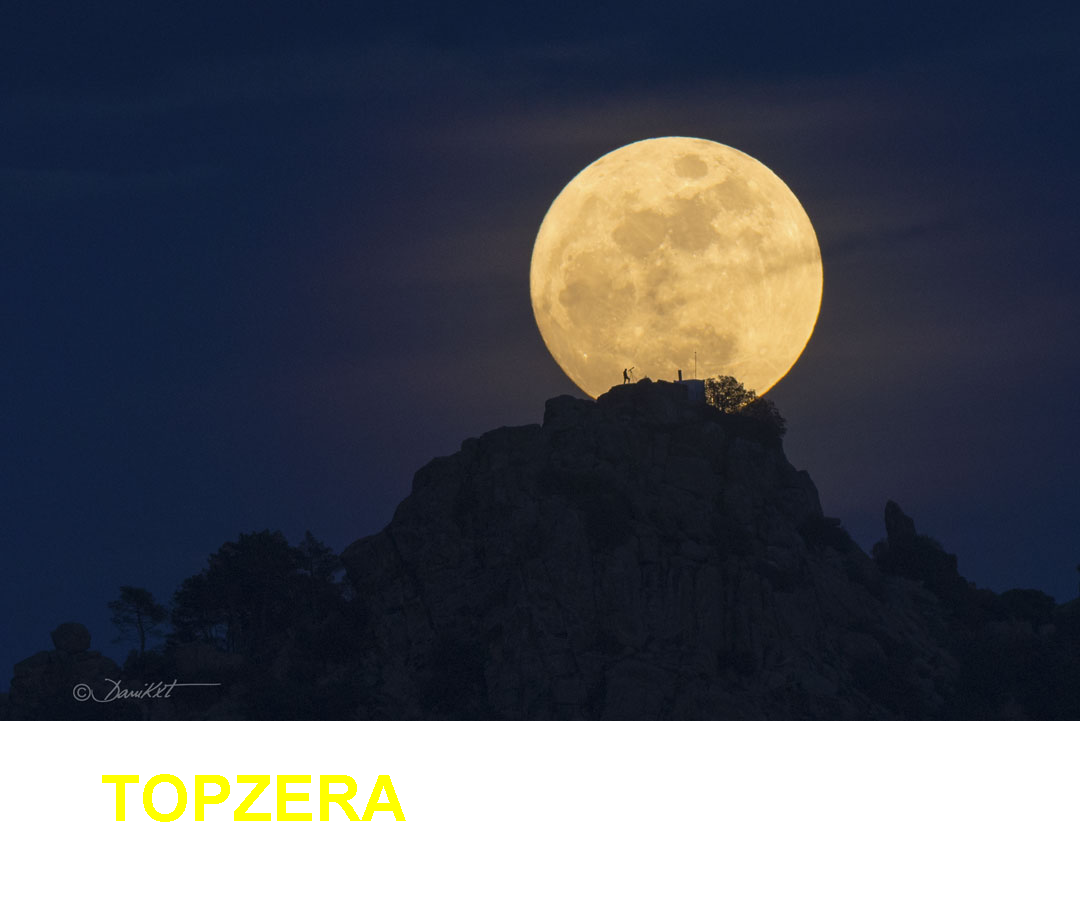
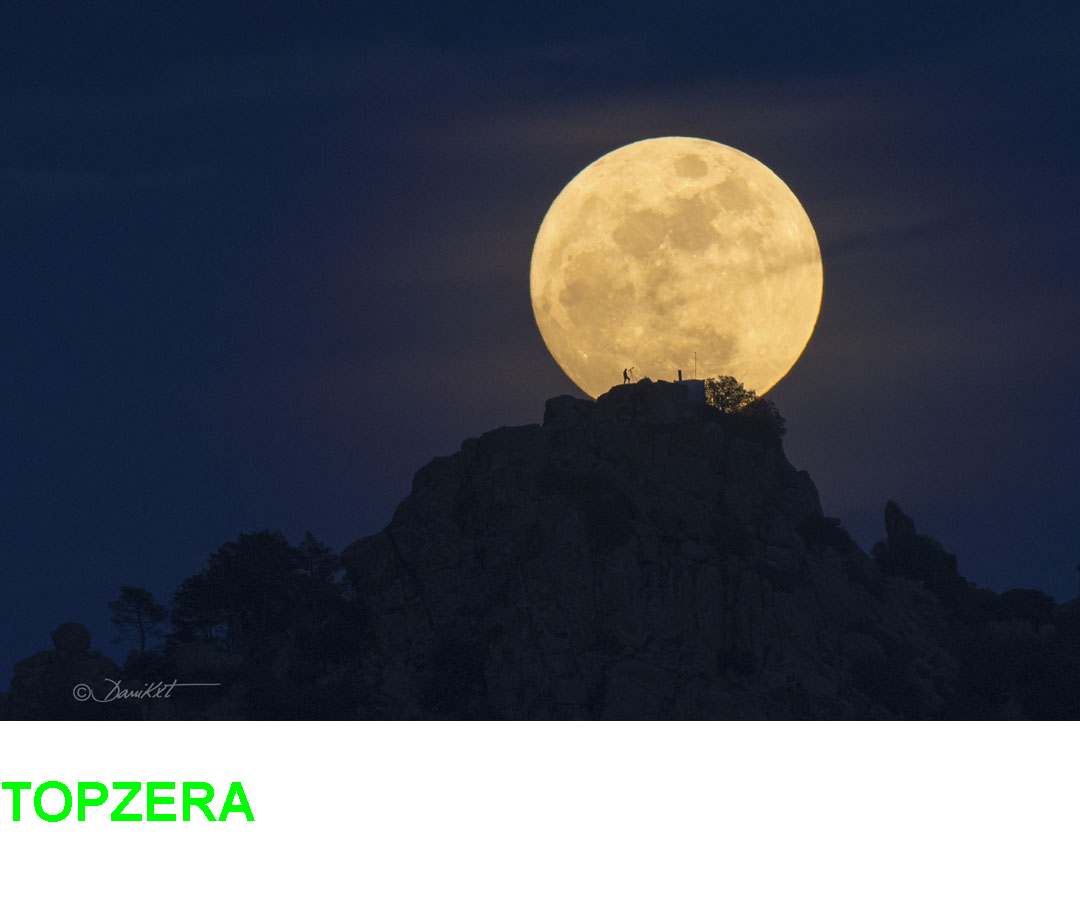
Extrator de conteudo com gerador de figurinhas

Changed region(s): [[0.0, 0.8208, 0.3667, 0.9121]]

diff --git a/src/App.java b/src/App.java
@@ -6,12 +6,21 @@ public class App {
     public static void main(String[] args) throws Exception {
 
         // API nasa
-        String url = "https://raw.githubusercontent.com/alura-cursos/imersao-java/api/NASA-APOD.json";
-        
+        //String url = "https://raw.githubusercontent.com/alura-cursos/imersao-java/api/NASA-APOD.json";
+
+        // minha API (linguagens mais utilizadas em 2022)
+         String url = "http://localhost:8080/linguagens-mais-usadas-em-2022";
+
+        //API imdb
+        //String  url = "https://imdb-api.com/en/API/MostPopularTVs/k_s0xlqz72";
+
+        // var extrator = new ExtratorConteudoNasa();
+        var extrator = new ExtratorDeConteudoDoIMDB();
+
         var http = new ClientHttp();
         String json = http.buscaDados(url);
 
-        ExtratorConteudoNasa extrator = new ExtratorConteudoNasa();
+        // ExtratorConteudoNasa extrator = new ExtratorConteudoNasa();
         List<Conteudo> conteudos = extrator.extraiConteudos(json);
 
         var geradora = new GeradoraDeFigurinhas();

diff --git a/src/GeradoraDeFigurinhas.java b/src/GeradoraDeFigurinhas.java
@@ -1,4 +1,5 @@
 
+
 import java.awt.Color;
 import java.awt.Font;
 import java.awt.Graphics2D;
@@ -32,12 +33,12 @@ public class GeradoraDeFigurinhas {
         graphics.drawImage(imagemOriginal, 0, 0, null);
 
         // configurar a fonte
-        var fonte = new Font(Font.SANS_SERIF, Font.BOLD, 64);
-        graphics.setColor(Color.YELLOW);
+        var fonte = new Font(Font.SANS_SERIF, Font.BOLD, 54);
+        graphics.setColor(Color.GREEN);
         graphics.setFont(fonte);
 
         // escrever uma frase na nova imagem
-        graphics.drawString("TOPZERA", 100, novaAltura - 100);
+        graphics.drawString("TOPZERA", 0, novaAltura - 100);
 
         // escrever a nova imagem em um arquivo
         ImageIO.write(novaImagem, "png", new File(nomeArquivo));

diff --git a/src/Conteudo.java b/src/Conteudo.java
@@ -1,4 +1,3 @@
-
 public class Conteudo {
     private final String titulo;
     private final String urlImagem;

diff --git a/src/ClientHttp.java b/src/ClientHttp.java
@@ -1,5 +1,3 @@
-
-
 import java.io.IOException;
 import java.net.URI;
 import java.net.http.HttpClient;

diff --git a/src/JsonParse.java b/src/JsonParse.java
@@ -1,4 +1,3 @@
-
 import java.util.ArrayList;
 import java.util.HashMap;
 import java.util.List;

diff --git a/src/ExtratorDeConteudoDoIMDB.java b/src/ExtratorDeConteudoDoIMDB.java
@@ -1,4 +1,5 @@
 
+
 import java.util.ArrayList;
 import java.util.List;
 import java.util.Map;
